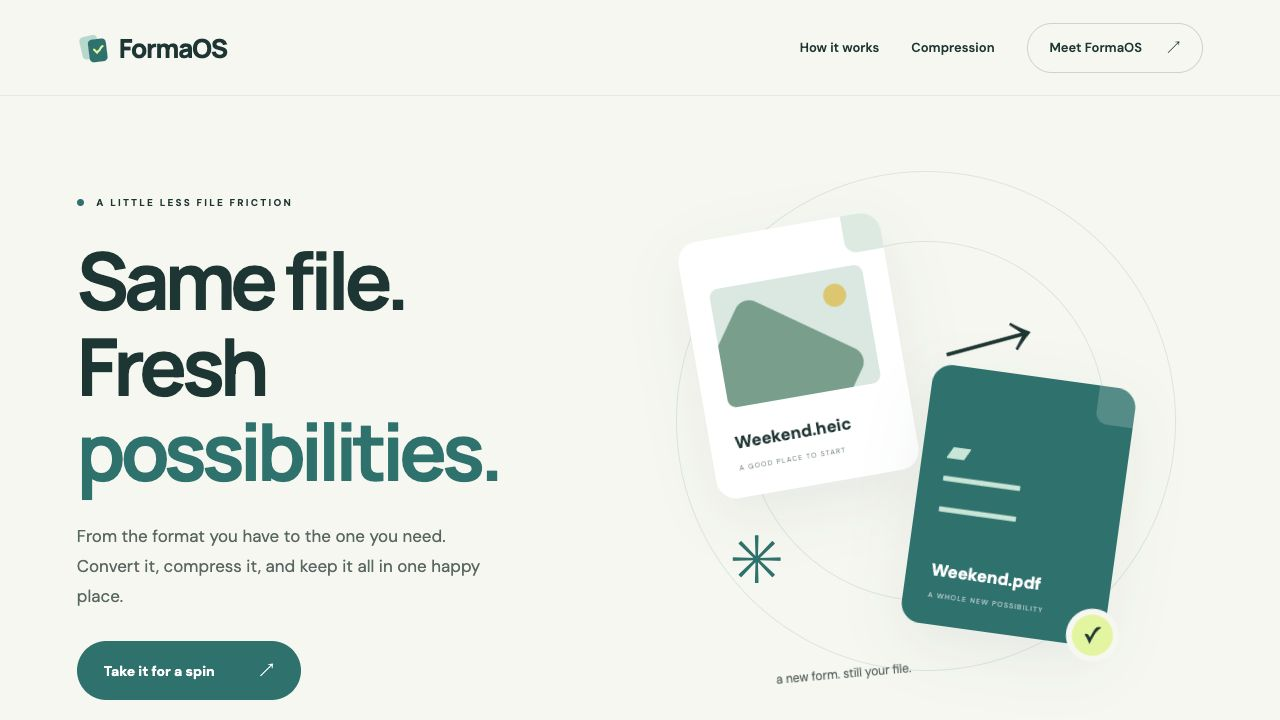
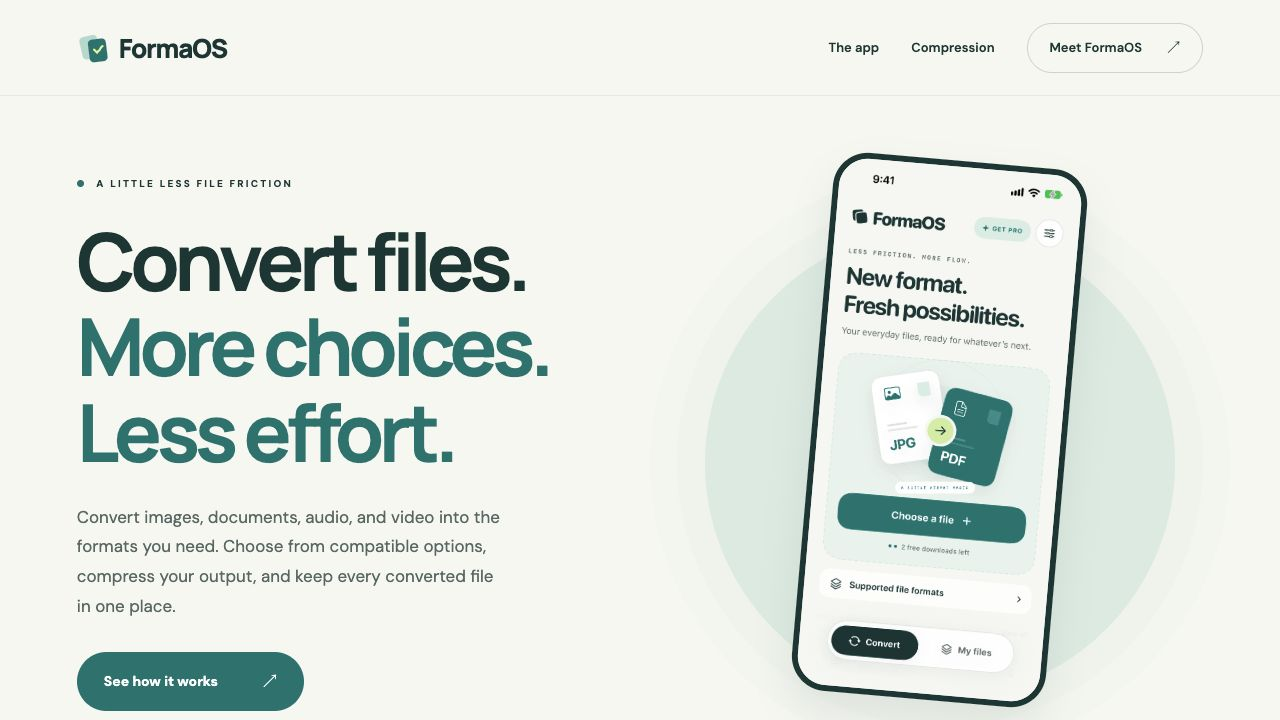
Show real FormaOS app screens and clarify demo completion

diff --git a/formaos/index.html b/formaos/index.html
@@ -1,10 +1,18 @@
 <!doctype html><html lang="en"><head><meta charset="utf-8"><meta name="viewport" content="width=device-width,initial-scale=1"><title>FormaOS — Easy file conversion. More format choices.</title><meta name="description" content="Meet FormaOS. Convert, compress, and keep your everyday files together on iPhone, iPad, and Mac."><meta name="theme-color" content="#087f79"><meta property="og:title" content="FormaOS — Easy file conversion. More format choices."><meta property="og:description" content="Less friction. More flow. File conversion and compression for iPhone, iPad, and Mac."><link rel="canonical" href="https://ajpicard.design/formaos/"><link rel="icon" href="mark.svg" type="image/svg+xml"><link rel="stylesheet" href="style.css"></head><body>
-<a class="skip" href="#main">Skip to content</a><header><a class="brand" href="#" aria-label="FormaOS home"><img src="mark.svg" width="34" height="34" alt="">FormaOS</a><nav aria-label="Main navigation"><a href="#how">How it works</a><a href="#compress">Compression</a><a class="nav-cta" href="#explore">Meet FormaOS <span>↗</span></a></nav></header>
-<main id="main"><section class="hero"><div class="hero-copy"><span class="eyebrow"><i></i> A LITTLE LESS FILE FRICTION</span><h1>Convert files.<br><em>More choices.<br>Less effort.</em></h1><p>Convert images, documents, audio, and video into the formats you need. Choose from compatible options, compress your output, and keep every converted file in one place.</p><a class="button" href="#playground">See how it works <span>↗</span></a><div class="platforms">Made for iPhone <b>·</b> iPad <b>·</b> Mac</div></div><div class="hero-art" aria-label="Illustration of a photo becoming a PDF"><div class="orbit orbit-one"></div><div class="orbit orbit-two"></div><div class="spark">✳</div><div class="file-card original"><span class="file-fold"></span><div class="landscape"><i></i><b></b></div><strong>Weekend.heic</strong><small>A GOOD PLACE TO START</small></div><div class="flow-arrow">↗</div><div class="file-card converted"><span class="file-fold"></span><span class="doc-lines">▰<br>━━<br>━━</span><strong>Weekend.pdf</strong><small>A WHOLE NEW POSSIBILITY</small><span class="check">✓</span></div><div class="art-note">a new form. still your file.</div></div><div class="hero-bottom"><span>LESS FRICTION. MORE FLOW.</span><a href="#how">A little scroll goes a long way ↓</a></div></section>
+<a class="skip" href="#main">Skip to content</a><header><a class="brand" href="#" aria-label="FormaOS home"><img src="mark.svg" width="34" height="34" alt="">FormaOS</a><nav aria-label="Main navigation"><a href="#screenshots">The app</a><a href="#compress">Compression</a><a class="nav-cta" href="#explore">Meet FormaOS <span>↗</span></a></nav></header>
+<main id="main"><section class="hero"><div class="hero-copy"><span class="eyebrow"><i></i> A LITTLE LESS FILE FRICTION</span><h1>Convert files.<br><em>More choices.<br>Less effort.</em></h1><p>Convert images, documents, audio, and video into the formats you need. Choose from compatible options, compress your output, and keep every converted file in one place.</p><a class="button" href="#playground">See how it works <span>↗</span></a><div class="platforms">Made for iPhone <b>·</b> iPad <b>·</b> Mac</div></div><div class="hero-app"><div class="hero-app-orbit" aria-hidden="true"></div><a class="app-phone hero-phone" href="#screenshots"><img src="assets/app-home.png" width="1206" height="2622" alt="FormaOS iPhone app with the Choose a file button and supported formats" fetchpriority="high"></a><span class="hero-app-note">The actual app. Ready for your files.</span></div><div class="hero-bottom"><span>LESS FRICTION. MORE FLOW.</span><a href="#how">A little scroll goes a long way ↓</a></div></section>
 <div class="format-strip" aria-hidden="true">HEIC <span>↗</span> JPG <span>✳</span> PDF <span>↗</span> PNG <span>✳</span> MP4 <span>↗</span> M4A <span>✳</span> TXT <span>↗</span> ZIP</div>
 <section id="how" class="section how"><div class="section-top"><span class="eyebrow">01 / A NICER WAY THROUGH</span><h2>Big possibilities.<br><em>Little effort.</em></h2><p>No guessing which format works. FormaOS checks your file and shows the options your device supports.</p></div><div class="steps"><article><span class="number">01</span><div class="step-icon">＋</div><h3>Drop something in.</h3><p>A photo, document, song, or video. Choose your file to get started.</p></article><article><span class="number">02</span><div class="step-icon">⇄</div><h3>Find its next form.</h3><p>Pick an available format. Turn on compression when you want to save a little space.</p></article><article><span class="number">03</span><div class="step-icon">↗</div><h3>Send it on its way.</h3><p>Save to Files, share with another app, or come back to it in your FormaOS library.</p></article></div></section>
-<section id="playground" class="section playground"><div class="demo-copy"><span class="eyebrow">02 / TRY THE FLOW</span><h2>A little change.<br>A whole <em>new use.</em></h2><p>Tap a sample to see how choosing a new format feels.</p><div class="sample-tabs" role="group" aria-label="Sample file type"><button aria-pressed="true" data-type="photo">Photo</button><button aria-pressed="false" data-type="document">Document</button><button aria-pressed="false" data-type="video">Video</button></div><p class="fine">Interactive preview. Sample files only; nothing is uploaded or converted on this website.</p></div><div class="demo"><div class="demo-head"><span>YOUR LITTLE FILE STUDIO</span><span class="live-dot"></span></div><div class="demo-file"><div id="demo-icon">▧</div><div><strong id="demo-name">Weekend.heic</strong><small>Ready for its next chapter</small></div><span>✓</span></div><label class="demo-label">MAKE IT A</label><div id="formats" class="formats"></div><label class="compress-switch"><span><strong>Compress output</strong><small>A little lighter. Easier to share.</small></span><input id="compress-toggle" type="checkbox" role="switch"><span class="switch-art" aria-hidden="true"></span></label><button class="button demo-go" id="demo-go">Preview conversion <span>↗</span></button><div class="progress" aria-hidden="true"><i id="progress-fill"></i></div><p id="demo-status" role="status" aria-live="polite">Your original stays just as it is.</p></div></section>
+<section id="screenshots" class="section app-gallery" aria-labelledby="gallery-title">
+  <div class="section-top"><span class="eyebrow">INSIDE FORMAOS</span><h2 id="gallery-title">Your file.<br><em>Three simple steps.</em></h2><p>A closer look at the actual iPhone app. Choose a format, save the result, and find it again in My Files.</p></div>
+  <div class="app-shots">
+    <figure><a class="app-phone" href="assets/app-formats.png" target="_blank" rel="noopener" aria-label="View full-size format selection screenshot"><img src="assets/app-formats.png" width="1206" height="2622" alt="FormaOS showing PDF, RTF, HTML and ZIP options for a text file" loading="lazy"></a><figcaption><span>01 / CHOOSE</span><h3>Options that fit your file.</h3><p>See which formats are available.</p></figcaption></figure>
+    <figure><a class="app-phone" href="assets/app-result.png" target="_blank" rel="noopener" aria-label="View full-size completed conversion screenshot"><img src="assets/app-result.png" width="1206" height="2622" alt="A completed PDF conversion in FormaOS, with Download file and Share somewhere else buttons" loading="lazy"></a><figcaption><span>02 / SAVE</span><h3>Ready to go.</h3><p>Download or share your converted file.</p></figcaption></figure>
+    <figure><a class="app-phone" href="assets/app-library.png" target="_blank" rel="noopener" aria-label="View full-size saved files screenshot"><img src="assets/app-library.png" width="1206" height="2622" alt="FormaOS My Files library with saved PDFs, images, and documents" loading="lazy"></a><figcaption><span>03 / KEEP</span><h3>All together, for later.</h3><p>Find your converted files in the app.</p></figcaption></figure>
+  </div>
+</section>
+<section id="playground" class="section playground"><div class="demo-copy"><span class="eyebrow">02 / TRY THE FLOW</span><h2>A little change.<br>A whole <em>new use.</em></h2><p>Tap a sample to see how choosing a new format feels.</p><div class="sample-tabs" role="group" aria-label="Sample file type"><button aria-pressed="true" data-type="photo">Photo</button><button aria-pressed="false" data-type="document">Document</button><button aria-pressed="false" data-type="video">Video</button></div><p class="fine">Interactive preview. Sample files only; nothing is uploaded or converted on this website.</p></div><div class="demo"><div class="demo-head"><span>YOUR LITTLE FILE STUDIO</span><span class="live-dot"></span></div><div class="demo-file"><div id="demo-icon">▧</div><div><strong id="demo-name">Weekend.heic</strong><small>Ready for its next chapter</small></div><span>✓</span></div><label class="demo-label">MAKE IT A</label><div id="formats" class="formats"></div><label class="compress-switch"><span><strong>Compress output</strong><small>A little lighter. Easier to share.</small></span><input id="compress-toggle" type="checkbox" role="switch"><span class="switch-art" aria-hidden="true"></span></label><button class="button demo-go" id="demo-go">Preview conversion <span>↗</span></button><div id="demo-result" class="demo-result" hidden><div class="demo-success"><span aria-hidden="true">✓</span><div><strong>Preview complete</strong><p id="demo-output"></p></div></div><p class="demo-result-note">In FormaOS, your converted file is ready to download or share.</p><a class="button" href="#screenshots">See the app screens <span>↓</span></a><button id="demo-reset" class="demo-reset">Choose another sample</button></div><div class="progress" aria-hidden="true"><i id="progress-fill"></i></div><p id="demo-status" role="status" aria-live="polite">Your original stays just as it is.</p></div></section>
 <section id="compress" class="section compression"><div class="phone-stage"><span class="stage-orbit"></span><div class="phone"><img src="assets/compression.png" width="1206" height="2622" alt="FormaOS compression onboarding showing a PDF becoming a smaller ZIP" loading="lazy"></div><span class="floating-label">Less bulk.<br>More breathing room. ✳</span></div><div class="compression-copy"><span class="eyebrow">03 / MAKE A LITTLE ROOM</span><h2>Good things.<br><em>Smaller packages.</em></h2><p>A big attachment shouldn’t get in the way of a good idea. Switch on compression as you convert, then choose what matters to you.</p><div class="mode"><span>↘</span><div><h3>Balanced</h3><p>A practical middle ground between file size and quality.</p></div></div><div class="mode"><span>⇲</span><div><h3>Smallest</h3><p>Prioritize a lighter file. Images and media may lose some detail.</p></div></div><p class="fine">Compression depends on the format. Some outputs use a lossless ZIP. If a compressed copy isn’t smaller, FormaOS keeps the converted file.</p></div></section>
-<section class="section keep"><span class="eyebrow">04 / YOUR FILES, STILL YOURS</span><h2>Keep it close.<br><em>Send it anywhere.</em></h2><div class="keep-grid"><article><span>⌁</span><h3>Right on your device.</h3><p>Conversions run locally. Your file doesn’t need to visit a conversion server.</p></article><article><span>▤</span><h3>A library worth keeping.</h3><p>Converted files stay together in the app, ready to download again when you need them.</p></article><article><span>↗</span><h3>Your next destination.</h3><p>Save a copy to Files or share it with another app. Your original stays unchanged.</p></article></div></section>
+<section class="section keep"><span class="eyebrow">04 / YOUR FILES, STILL YOURS</span><h2>Keep it close.<br><em>Send it anywhere.</em></h2><div class="keep-grid"><article><span>⌁</span><h3>Right on your device.</h3><p>Conversions run locally. Your file doesn’t need to visit a conversion server.</p></article><article><span>▤</span><h3>A library worth keeping.</h3><p>Converted files stay together in the app, ready to download again when you need them.</p></article><article><span>↗</span><h3>Your next destination.</h3><p>Save a copy to Files or share it with another app. Your original stays unchanged.</p></article></div><figure class="desktop-shot"><a href="assets/app-mac.png" target="_blank" rel="noopener" aria-label="View full-size FormaOS Mac screenshot"><img src="assets/app-mac.png" width="1180" height="860" alt="FormaOS on Mac: a simple My Files list, one Convert button, search, and device storage status" loading="lazy"></a><figcaption>A focused Mac workspace. Your files, one Convert button, and nothing in the way.</figcaption></figure></section>
 <section class="section questions"><div><span class="eyebrow">A FEW GOOD QUESTIONS</span><h2>Before you<br><em>make the switch.</em></h2></div><div class="faq"><details><summary>Can it convert absolutely every file?</summary><p>FormaOS shows compatible options after inspecting your file. It supports common image, document, audio, and video workflows. Some proprietary formats need their original app; ZIP packaging can keep those files intact.</p></details><details><summary>Does document formatting stay the same?</summary><p>Office and ebook conversions extract readable text. Complex layouts, images, charts, and interactive content may not carry over. The app explains these limits before you convert.</p></details><details><summary>How does the free allowance work?</summary><p>You get two successful downloads to try FormaOS. After that, a lifetime purchase unlocks continued conversion and downloading. The app displays the available purchase price.</p></details><details><summary>Where can I download FormaOS?</summary><p>FormaOS is being prepared for release on iPhone, iPad, and Mac. An App Store link will be added here when it’s available.</p></details></div></section>
 <section id="explore" class="outro"><span class="eyebrow">A FRESH FORM IS COMING.</span><h2>Your files.<br><em>More possibilities.</em></h2><p>FormaOS for iPhone, iPad, and Mac.<br>Currently in development.</p><a class="button" href="#playground">Explore the preview <span>↗</span></a></section></main><footer><a class="brand" href="#"><img src="mark.svg" width="28" height="28" alt="">FormaOS</a><span>Less friction. More flow.</span><a href="/">Made by AJ Picard ↗</a></footer><script src="main.js"></script></body></html>

diff --git a/formaos/style.css b/formaos/style.css
@@ -1,2 +1,34 @@
 @import url('https://fonts.googleapis.com/css2?family=DM+Sans:wght@400;500;600;700&family=Manrope:wght@400;500;600;700;800&display=swap');
 :root{--paper:#f7f8f3;--ink:#173f3a;--teal:#087f79;--mint:#dfede5;--lime:#e6f5a4;--muted:#61736e}*{box-sizing:border-box}html{scroll-behavior:smooth;scroll-padding-top:100px}body{margin:0;color:var(--ink);background:var(--paper);font-family:'DM Sans',sans-serif}a{color:inherit;text-decoration:none}button,input{font:inherit}button,a,input,summary{-webkit-tap-highlight-color:transparent}button{cursor:pointer}a:focus-visible,button:focus-visible,input:focus-visible,summary:focus-visible{outline:3px solid #b48a14;outline-offset:5px}.skip{position:fixed;top:-80px;background:white;padding:15px;z-index:100}.skip:focus{top:0}header{height:96px;display:flex;align-items:center;justify-content:space-between;padding:0 6%;border-bottom:1px solid #173f3a14}.brand{display:flex;align-items:center;gap:8px;font:800 26px Manrope,sans-serif;letter-spacing:-1.2px}nav{display:flex;align-items:center;gap:32px;font-size:13px;font-weight:600}.nav-cta{border:1px solid #173f3a30;border-radius:50px;padding:14px 22px}.nav-cta span{margin-left:22px}.hero{position:relative;min-height:730px;padding:100px 6% 90px;display:grid;grid-template-columns:1.1fr 1fr;gap:20px;overflow:hidden}.eyebrow{font-size:10px;letter-spacing:2.2px;font-weight:700;display:block}.eyebrow i,.live-dot{display:inline-block;background:var(--teal);width:7px;height:7px;border-radius:50%;margin-right:8px}h1,h2,h3,p{margin:0}h1,h2,h3{font-family:Manrope,sans-serif}h1{font-size:clamp(55px,6.2vw,94px);line-height:1.08;letter-spacing:-5px;margin:28px 0}em{font-style:normal;color:var(--teal)}p{font-size:17px;line-height:1.75;color:var(--muted)}.hero-copy>p{max-width:430px}.button{display:inline-flex;align-items:center;justify-content:space-between;gap:45px;border:0;background:var(--teal);color:white;border-radius:50px;padding:19px 27px;font-size:14px;font-weight:700;transition:transform .2s,background .2s}.button:hover{background:#086861;transform:translateY(-2px)}.hero .button{margin-top:30px}.platforms{font-size:11px;color:var(--muted);margin-top:24px}.platforms b{margin:0 10px}.hero-art{position:relative;min-height:460px}.orbit{position:absolute;border:1px solid #087f7922;border-radius:50%;width:500px;height:500px;top:-25px;left:0}.orbit-two{width:360px;height:360px;top:45px;left:70px}.file-card{position:absolute;width:205px;height:260px;padding:25px;border-radius:20px;box-shadow:0 20px 60px #153e3b12;display:flex;flex-direction:column;justify-content:flex-end}.original{background:white;top:40px;left:20px;transform:rotate(-13deg);animation:float-a 7s ease-in-out infinite}.converted{background:var(--teal);color:white;top:170px;left:240px;transform:rotate(11deg);animation:float-b 7s ease-in-out infinite}.file-card strong{font-size:17px;margin-bottom:10px}.file-card small{font-size:7px;letter-spacing:1.2px;opacity:.6}.file-fold{position:absolute;right:0;top:0;width:38px;height:38px;border-radius:0 20px 0 12px;background:#ffffff30}.original .file-fold{background:var(--mint)}.landscape{height:120px;overflow:hidden;background:#dcece5;border-radius:9px;margin-bottom:24px;position:relative}.landscape i{position:absolute;background:#e6c974;width:23px;height:23px;border-radius:50%;top:15px;right:20px}.landscape b{position:absolute;bottom:-40px;left:-15px;transform:rotate(35deg);width:140px;height:120px;background:#7ca995;border-radius:15px}.doc-lines{font-size:38px;line-height:.8;color:#cae9dc;margin-bottom:34px}.check{position:absolute;background:var(--lime);color:var(--ink);font-size:24px;border:6px solid var(--paper);border-radius:50%;width:53px;height:53px;display:grid;place-items:center;right:-15px;bottom:-15px}.flow-arrow{position:absolute;top:95px;left:278px;font-size:70px;transform:rotate(30deg)}.spark{position:absolute;top:320px;left:55px;font-size:68px;color:var(--teal)}.art-note{position:absolute;top:470px;left:100px;font-size:12px;transform:rotate(-5deg);color:var(--muted)}.hero-bottom{position:absolute;bottom:30px;left:6%;right:6%;display:flex;justify-content:space-between;font-size:10px;letter-spacing:1.3px;color:var(--muted)}.format-strip{background:var(--ink);color:#e0ede1;display:flex;justify-content:space-around;align-items:center;padding:30px 4%;font:600 25px Manrope;gap:20px;overflow:hidden;white-space:nowrap}.format-strip span{color:#a8c37f;font-size:21px}.section{padding:110px 7%;max-width:1600px;margin:auto}h2{font-size:clamp(38px,4.4vw,66px);letter-spacing:-3px;line-height:1.13}.section-top{display:grid;grid-template-columns:1.1fr 1fr;gap:20px 90px}.section-top .eyebrow{grid-column:1/-1;margin-bottom:12px}.section-top>p{align-self:end;max-width:410px}.steps{display:grid;grid-template-columns:repeat(3,1fr);gap:60px;margin-top:70px}.steps article{position:relative;border-top:1px solid #173f3a25;padding-top:30px}.number{position:absolute;right:0;top:30px;font-size:11px;color:var(--muted)}.step-icon{font-size:35px;margin-bottom:30px}h3{font-size:21px;letter-spacing:-.6px;margin-bottom:12px}.steps p,.keep p{font-size:14px}.playground{background:var(--mint);max-width:none;display:grid;grid-template-columns:1fr 1fr;gap:10%;align-items:center}.demo-copy h2{margin:25px 0}.demo-copy>p{max-width:380px}.sample-tabs{display:flex;gap:8px;margin:25px 0}.sample-tabs button{border:1px solid #173f3a20;padding:12px 22px;background:transparent;border-radius:40px;color:var(--ink);font-size:12px}.sample-tabs button[aria-pressed=true]{background:var(--ink);color:white}.fine{font-size:11px!important;line-height:1.7!important}.demo{background:var(--paper);padding:30px;border-radius:26px;box-shadow:0 20px 50px #143d3810}.demo-head{display:flex;justify-content:space-between;font-size:9px;letter-spacing:1.5px;border-bottom:1px solid #173f3a15;padding-bottom:23px}.demo-file{display:flex;align-items:center;gap:15px;padding:26px 0}.demo-file>div:first-child{font-size:30px;border-radius:13px;background:var(--mint);padding:12px;color:var(--teal)}.demo-file>span{margin-left:auto;color:var(--teal)}.demo-file small{display:block;font-size:10px;margin-top:6px;color:var(--muted)}.demo-label{font-size:9px;letter-spacing:1.5px}.formats{display:flex;gap:9px;margin:12px 0 25px}.formats button{flex:1;border:1px solid #173f3a20;background:white;border-radius:12px;padding:16px 4px;font-weight:700;color:var(--ink)}.formats button[aria-pressed=true]{background:var(--mint);border-color:var(--teal)}.compress-switch{display:flex;align-items:center;position:relative;cursor:pointer;padding:18px 0;border-top:1px solid #173f3a15}.compress-switch strong{font-size:12px}.compress-switch small{display:block;font-size:10px;color:var(--muted);margin-top:5px}.compress-switch input{position:absolute;right:0;opacity:0;width:44px;height:30px}.switch-art{width:42px;height:25px;background:#c6d1ca;border-radius:30px;margin-left:auto;padding:3px}.switch-art:after{content:'';display:block;width:19px;height:19px;border-radius:50%;background:white;transition:transform .2s}input:checked+.switch-art{background:var(--teal)}input:checked+.switch-art:after{transform:translateX(17px)}input:focus-visible+.switch-art{outline:3px solid #b48a14;outline-offset:3px}.demo-go{width:100%;margin-top:10px}.demo-go:disabled{opacity:.7}.progress{height:3px;background:#e0e9e1;margin-top:20px;border-radius:5px;overflow:hidden}.progress i{display:block;height:100%;background:var(--teal);width:0;transition:width .3s}#demo-status{font-size:10px;margin-top:10px;min-height:18px}.compression{display:grid;grid-template-columns:1fr 1fr;align-items:center;gap:12%}.phone-stage{position:relative;display:grid;place-items:center;min-height:630px;background:#e8eee0;border-radius:200px 200px 30px 30px}.phone{width:230px;border:7px solid #163e38;border-radius:40px;overflow:hidden;transform:rotate(-6deg);box-shadow:15px 30px 45px #173f3a25;z-index:1}.phone img{width:100%;height:auto;display:block}.floating-label{position:absolute;bottom:45px;right:-28px;background:var(--lime);padding:20px 25px;border-radius:15px;transform:rotate(5deg);font-size:14px;font-weight:600;z-index:2}.compression-copy h2{margin:25px 0}.mode{display:flex;gap:20px;border-bottom:1px solid #173f3a18;padding:25px 0}.mode>span{font-size:30px;color:var(--teal)}.mode h3{font-size:17px;margin-bottom:5px}.mode p{font-size:13px}.compression-copy>.fine{margin-top:20px}.keep{background:var(--ink);color:white;max-width:none}.keep .eyebrow{color:#a3beb5}.keep h2{margin-top:25px}.keep em{color:var(--lime)}.keep-grid{display:grid;grid-template-columns:repeat(3,1fr);gap:65px;margin-top:65px}.keep-grid article>span{font-size:35px;color:var(--lime);display:block;margin-bottom:20px}.keep p{color:#b8cdc5}.questions{display:grid;grid-template-columns:1fr 1fr;gap:10%}.questions h2{margin-top:25px}.faq details{border-bottom:1px solid #173f3a25;padding:24px 0}.faq summary{cursor:pointer;font-weight:600;font-size:15px;line-height:1.5}.faq p{font-size:13px;margin-top:16px}.outro{text-align:center;padding:90px 25px 110px;background:#e6eddd}.outro h2{margin:25px 0;font-size:clamp(50px,6vw,85px)}.outro .button{margin-top:28px}.outro p{font-size:14px}footer{display:flex;justify-content:space-between;align-items:center;padding:35px 6%;gap:25px}footer>span,footer>a:last-child{font-size:11px}footer .brand{font-size:21px}@keyframes float-a{50%{transform:translateY(-13px) rotate(-9deg)}}@keyframes float-b{50%{transform:translateY(12px) rotate(7deg)}}@media(min-width:1600px){.hero{padding-left:calc((100vw - 1400px)/2);padding-right:calc((100vw - 1400px)/2)}}@media(max-width:1000px){.hero{min-height:640px;padding-top:70px}h1{letter-spacing:-3px}.hero-art{transform:scale(.8);transform-origin:left top}.file-card{width:180px}.converted{left:200px}.orbit{width:420px;height:420px}.orbit-two{width:300px;height:300px}.flow-arrow{left:235px}.section{padding:80px 6%}.steps,.keep-grid{gap:30px}.playground,.compression{gap:6%}.phone-stage{min-height:560px}.section-top{gap:25px}nav{gap:18px}}@media(max-width:700px){header{height:80px;padding:0 6%}header .brand{font-size:23px}nav>a:not(.nav-cta){display:none}.nav-cta{padding:12px 16px;font-size:11px}.nav-cta span{margin-left:10px}.hero{display:block;padding-top:50px;min-height:960px}h1{font-size:57px;letter-spacing:-3.5px}.hero-copy>p{font-size:15px;max-width:330px}.hero-art{margin:55px auto 0;width:390px;height:400px;min-height:0;transform:scale(.8);transform-origin:top left}.hero-bottom span{display:none}.hero-bottom{justify-content:center}.format-strip{font-size:18px;justify-content:flex-start;gap:25px;padding:25px}.section{padding:70px 7%}h2{font-size:43px;letter-spacing:-2px}.section-top,.playground,.compression,.questions{display:block}.section-top>p{margin-top:25px;font-size:15px}.steps{grid-template-columns:1fr;gap:30px;margin-top:40px}.steps article{padding-left:65px}.step-icon{position:absolute;left:0}.number{top:16px;font-size:9px}.steps h3{padding-right:30px}.demo{margin-top:35px;padding:23px}.phone-stage{margin-bottom:60px;min-height:580px}.floating-label{right:-5px}.compression-copy>p{font-size:15px}.keep-grid{grid-template-columns:1fr;gap:35px;margin-top:45px}.keep-grid article{padding-left:55px;position:relative}.keep-grid article>span{position:absolute;left:0;top:-7px}.faq{margin-top:30px}footer{flex-wrap:wrap}footer>span{display:none}}@media(max-width:370px){h1{font-size:49px}.hero-art{transform:scale(.68)}.hero{min-height:910px}.sample-tabs button{padding:12px 16px}}@media(prefers-reduced-motion:reduce){html{scroll-behavior:auto}*,*:before,*:after{animation:none!important;transition:none!important}}
+
+/* Actual app screens */
+[hidden]{display:none!important}
+.hero{align-items:center;padding-top:64px;padding-bottom:100px}
+.hero-app{position:relative;display:flex;flex-direction:column;align-items:center;justify-content:center;min-height:600px}
+.hero-app-orbit{position:absolute;width:470px;height:470px;max-width:100%;border-radius:50%;background:var(--mint);box-shadow:0 0 0 28px #dfede533,0 0 0 55px #dfede522}
+.app-phone{display:block;width:100%;max-width:270px;border:6px solid var(--ink);border-radius:35px;overflow:hidden;background:var(--paper);box-shadow:0 20px 40px #173f3a16;position:relative}
+.app-phone img{display:block;width:100%;height:auto}
+.hero-phone{width:255px;transform:rotate(5deg);transition:transform .3s}
+.hero-phone:hover{transform:rotate(0)}
+.hero-app-note{position:relative;background:var(--lime);border-radius:30px;padding:13px 20px;margin-top:25px;font-size:11px;font-weight:600}
+.app-gallery{padding-top:30px}
+.app-shots{display:grid;grid-template-columns:repeat(3,minmax(0,1fr));gap:55px;margin:55px auto 0;max-width:980px}
+.app-shots figure{margin:0;min-width:0}
+.app-shots .app-phone{margin:0 auto;transition:transform .25s}
+.app-shots .app-phone:hover{transform:translateY(-6px)}
+.app-shots figcaption{margin-top:30px}
+.app-shots figcaption>span{font-size:9px;letter-spacing:1.8px;color:var(--muted)}
+.app-shots h3{font-size:18px;margin:12px 0 6px}
+.app-shots p{font-size:13px}
+.demo-success{display:flex;gap:13px;align-items:center;margin:10px 0 18px}
+.demo-success>span{width:42px;height:42px;display:grid;place-items:center;flex-shrink:0;background:var(--lime);border-radius:50%;font-size:23px;color:var(--ink)}
+.demo-success strong{font-size:17px;color:var(--teal)}
+.demo-success p{font-size:12px;overflow-wrap:anywhere;margin-top:4px}
+.demo-result-note{font-size:12px;line-height:1.6;margin-bottom:18px}
+.demo-result>.button{width:100%}
+.demo-reset{display:block;background:none;border:none;color:var(--teal);font-size:12px;font-weight:600;padding:14px 6px 3px;margin:auto}
+.desktop-shot{margin:65px 0 0}
+.desktop-shot img{display:block;width:100%;height:auto;border:1px solid #ffffff25;border-radius:12px;box-shadow:0 20px 55px #0002}
+.desktop-shot figcaption{margin-top:18px;font-size:12px;color:#b8cdc5;text-align:center}
+@media(max-width:1000px){.hero-app{min-height:530px}.hero-phone{width:220px}.hero-app-orbit{width:350px;height:350px}.app-shots{gap:28px}.app-phone{border-radius:28px}}
+@media(max-width:700px){.hero{min-height:0;padding-bottom:80px}.hero-app{margin-top:55px;min-height:570px}.hero-phone{width:235px;border-radius:32px}.hero-app-orbit{width:320px;height:320px}.app-shots{grid-template-columns:1fr;gap:48px;max-width:310px}.app-shots .app-phone{max-width:255px;border-radius:32px}.app-shots figcaption{text-align:center;margin-top:24px}.app-shots h3{font-size:20px}.app-gallery{padding-top:10px}.desktop-shot{margin-top:40px}.desktop-shot img{border-radius:7px}}

diff --git a/formaos/main.js b/formaos/main.js
@@ -1,1 +1,70 @@
-(()=>{'use strict';const samples={photo:{name:'Weekend.heic',icon:'▧',formats:['JPG','PNG','PDF']},document:{name:'Good ideas.txt',icon:'▤',formats:['PDF','RTF','HTML']},video:{name:'One good day.mov',icon:'▷',formats:['MP4','M4A','WAV']}};let current='photo',selected='JPG',timer=null;const $=id=>document.getElementById(id),go=$('demo-go'),status=$('demo-status');function reset(){clearInterval(timer);timer=null;go.disabled=false;go.innerHTML='Preview conversion <span>↗</span>';$('progress-fill').style.width='0%';status.textContent='Your original stays just as it is.'}function render(){reset();const s=samples[current];$('demo-name').textContent=s.name;$('demo-icon').textContent=s.icon;$('formats').replaceChildren(...s.formats.map(f=>{const b=document.createElement('button');b.textContent=f;b.setAttribute('aria-pressed',String(f===selected));b.addEventListener('click',()=>{selected=f;render()});return b}))}document.querySelectorAll('[data-type]').forEach(b=>b.addEventListener('click',()=>{current=b.dataset.type;selected=samples[current].formats[0];document.querySelectorAll('[data-type]').forEach(t=>t.setAttribute('aria-pressed',String(t===b)));render()}));$('compress-toggle').addEventListener('change',reset);go.addEventListener('click',()=>{reset();go.disabled=true;go.textContent='Finding a fresh form…';let progress=0;status.textContent='Previewing the conversion flow…';timer=setInterval(()=>{progress+=20;$('progress-fill').style.width=progress+'%';if(progress>=100){clearInterval(timer);timer=null;go.disabled=false;go.innerHTML='Try it again <span>↻</span>';const zipped=$('compress-toggle').checked&&['PDF','RTF','HTML','WAV'].includes(selected);status.textContent='Preview complete: '+samples[current].name.replace(/\.[^.]+$/,'')+'.'+selected.toLowerCase()+(zipped?'.zip':'')+($('compress-toggle').checked?' · compression enabled':'')+'. No file was created.'}},240)});render()})();
+(() => {
+  'use strict';
+  const samples = {
+    photo: { name: 'Weekend.heic', icon: '▧', formats: ['JPG', 'PNG', 'PDF'] },
+    document: { name: 'Good ideas.txt', icon: '▤', formats: ['PDF', 'RTF', 'HTML'] },
+    video: { name: 'One good day.mov', icon: '▷', formats: ['MP4', 'M4A', 'WAV'] }
+  };
+  let current = 'photo', selected = 'JPG', timer = null;
+  const $ = id => document.getElementById(id);
+  const go = $('demo-go'), status = $('demo-status'), result = $('demo-result');
+  function reset() {
+    clearInterval(timer);
+    timer = null;
+    go.disabled = false;
+    go.hidden = false;
+    go.innerHTML = 'Preview conversion <span>↗</span>';
+    result.hidden = true;
+    $('progress-fill').style.width = '0%';
+    status.textContent = 'Sample preview only. Your files stay untouched.';
+  }
+  function render() {
+    reset();
+    const sample = samples[current];
+    $('demo-name').textContent = sample.name;
+    $('demo-icon').textContent = sample.icon;
+    $('formats').replaceChildren(...sample.formats.map(format => {
+      const button = document.createElement('button');
+      button.textContent = format;
+      button.setAttribute('aria-pressed', String(format === selected));
+      button.addEventListener('click', () => { selected = format; render(); });
+      return button;
+    }));
+  }
+  document.querySelectorAll('[data-type]').forEach(button => {
+    button.addEventListener('click', () => {
+      current = button.dataset.type;
+      selected = samples[current].formats[0];
+      document.querySelectorAll('[data-type]').forEach(tab => tab.setAttribute('aria-pressed', String(tab === button)));
+      render();
+    });
+  });
+  $('compress-toggle').addEventListener('change', reset);
+  $('demo-reset').addEventListener('click', () => {
+    reset();
+    document.querySelector('[data-type="photo"]').focus();
+  });
+  go.addEventListener('click', () => {
+    reset();
+    go.disabled = true;
+    go.textContent = 'Previewing conversion…';
+    let progress = 0;
+    status.textContent = 'Showing how conversion works in FormaOS…';
+    timer = setInterval(() => {
+      progress += 20;
+      $('progress-fill').style.width = progress + '%';
+      if (progress < 100) return;
+      clearInterval(timer);
+      timer = null;
+      const compressed = $('compress-toggle').checked;
+      const zipped = compressed && ['PDF', 'RTF', 'HTML', 'WAV'].includes(selected);
+      const output = samples[current].name.replace(/\.[^.]+$/, '') + '.' + selected.toLowerCase() + (zipped ? '.zip' : '');
+      $('demo-output').textContent = output;
+      go.hidden = true;
+      result.hidden = false;
+      status.textContent = 'Preview complete. ' + output + '. This is a sample demonstration; no file was created.';
+      result.querySelector('a').focus({ preventScroll: true });
+    }, 240);
+  });
+  render();
+})();
